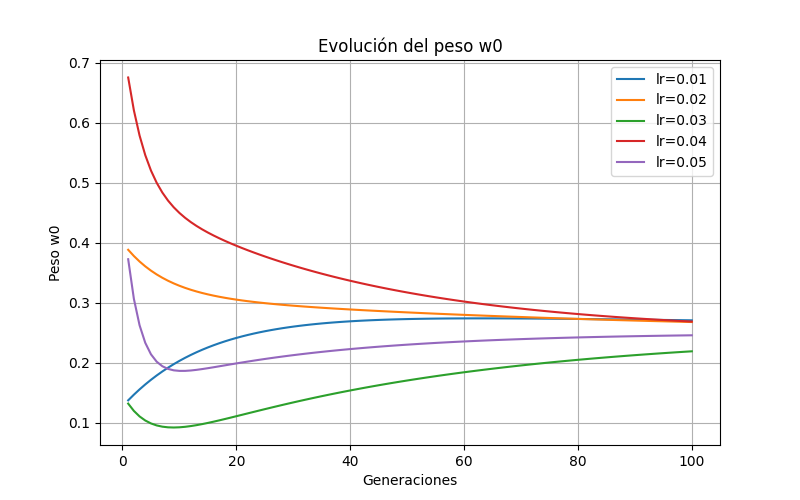
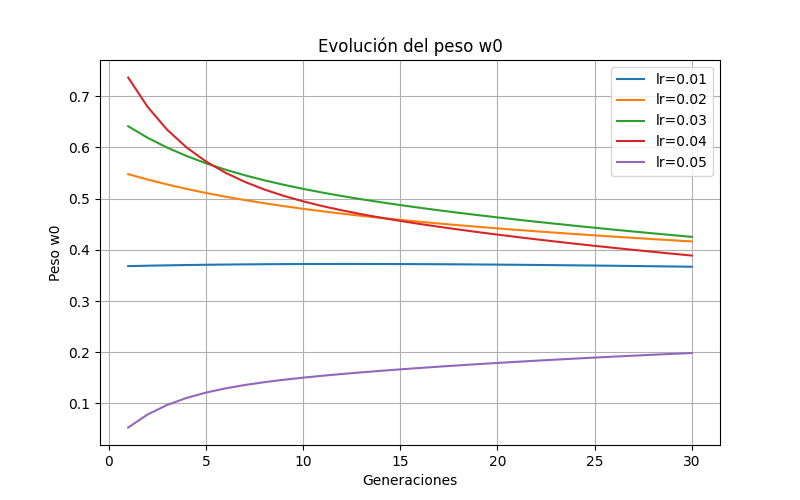
acepta strings

diff --git a/neurona/main.py b/neurona/main.py
@@ -3,34 +3,56 @@ import math
 import matplotlib.pyplot as plt
 import os
 
-path="./neurona/"
-
 def cargar_data():
-    """ 
-    path = "./neurona/iris/iris.data"
-    dataset = []
-
-    with open(path, "r") as file:
-    for line in file:
-        line = line.strip()
-        if line == "":
-            continue
-
-        parts = line.split(",")
-        numeric_part = parts[:4]  # ignoramos la clase string
-
-        row = [float(v) for v in numeric_part]
-        dataset.append(row)
-    return dataset
- """
     dataset = [
     [0, 0, 0],
     [0, 1, 1],
     [1, 0, 1],
     [1, 1, 1]
     ]   
+    """
+    path = "./neurona/iris/iris.data"
+    dataset = []
+
+    with open(path, "r") as file:
+        for line in file:
+            line = line.strip()
+            if line == "":
+                continue
+
+            parts = line.split(",")
+            numeric_part = parts[:4]  # ignoramos la clase string
+
+            row = [float(v) for v in numeric_part]
+            dataset.append(row)
+
+    """ 
+    #dataset, vocabulario = codificar_strings(dataset)
+    #print("Diccionario:", vocabulario)
+    
     return dataset
     
+def codificar_strings(dataset):
+    diccionario = {}
+    contador = 0
+
+    dataset_numerico = []
+
+    for fila in dataset:
+        fila_num = []
+        for valor in fila:
+            if isinstance(valor, str):
+                if valor not in diccionario:
+                    diccionario[valor] = contador
+                    contador += 1
+                fila_num.append(diccionario[valor])
+            else:
+                fila_num.append(valor)
+        dataset_numerico.append(fila_num)
+
+    return dataset_numerico, diccionario
+  
+  
 def calcular_XyY(dataset):
     x = [[1] + row[:-1] for row in dataset]
     y = [row[-1] for row in dataset] 
@@ -40,13 +62,15 @@ def cargar_pesos(n):
     pesos= [random.random() for _ in range(n)]
     return pesos
 
-def calcular_Yc(X,W):   
+def calcular_Yc(X,W, activacion):   
     Yc=[]
     for fila in X:
-        suma=0
+        u=0
         for j in range(len(W)):            
-            suma += fila[j] * W[j]
-        Yc.append(suma)
+            u += fila[j] * W[j]
+            
+        y= activar_funcion(u, activacion)
+        Yc.append(u)
     return Yc
         
 def calcular_E(Y, Yc):
@@ -77,6 +101,18 @@ def cargar_lr():
     lr = [0.01, 0.02, 0.03, 0.04, 0.05]
     return lr
 
+def activar_funcion(u, activacion):
+    
+    # ADALINE / regresión lineal
+    if activacion == "identidad":
+        return u
+
+    # Perceptrón clásico (escalón)
+    elif activacion == "escalon":
+        if u < 0:
+            return 0
+        else:
+            return 1
 
 
 ###########################################################################
@@ -132,7 +168,7 @@ def graficar_pesos(pesos_por_lr, indice_peso=0):
 
 
 def main():
-    generaciones = 100
+    generaciones = 30
     
     dataset=cargar_data()
 
@@ -155,7 +191,7 @@ def main():
         pesos_hist = []
         
         for g in range(generaciones):
-            Yc = calcular_Yc(matriz_x,w)
+            Yc = calcular_Yc(matriz_x,w, "identidad")   ##    escalon o identidad
             errores=calcular_E(matriz_y, Yc)
             delta_w=calcular_delta_w(matriz_x, errores,lr)
             w = actualizar_pesos(w, delta_w)
@@ -166,7 +202,7 @@ def main():
             errores_hist.append(error_total)
             pesos_hist.append(w.copy())  
             
-            print(f"Gen {g+1} | Error total: {error_total:.4f}")
+            print(f"Gen {g+1} | Error total: {error_total:.8f}")
 
         errores_por_lr[lr] = errores_hist
         pesos_por_lr[lr] = pesos_hist
